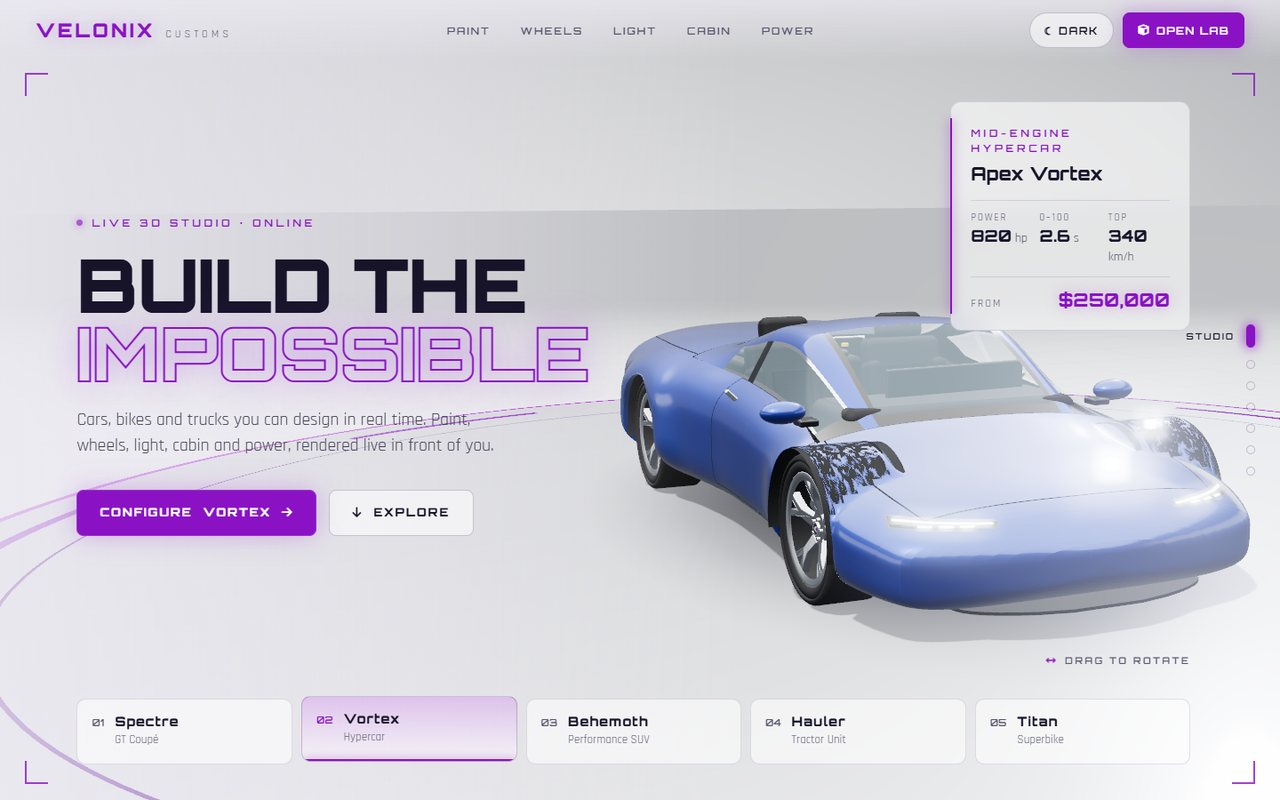
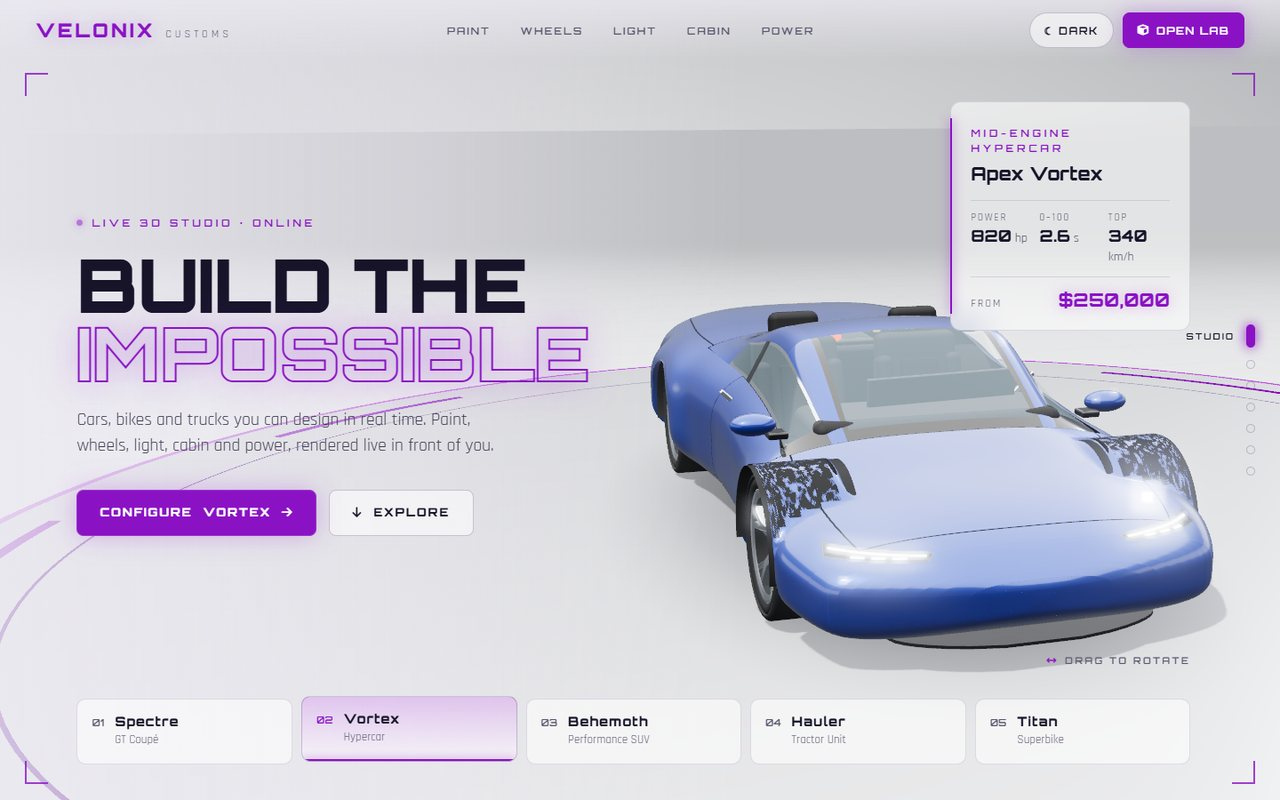
Tune showroom framing per vehicle and on mobile
- Bike gets a wider camera distance; hero angle raised to avoid hood glare
- Mobile cabin lifts the dashboard above the panel; headings keep word spaces
- Showroom renders at up to 1.25x DPR; hide drag hint and rail without WebGL
- Refresh hero, light-theme and mobile screenshots

diff --git a/index.html b/index.html
@@ -121,7 +121,7 @@
       <div class="panel">
         <div class="num" aria-hidden="true">01</div>
         <div class="eyebrow">Paint Lab</div>
-        <h2>Seventeen finishes.<br>One that's yours.</h2>
+        <h2>Seventeen finishes. <br>One that's yours.</h2>
         <p>Solid, metallic, matte, liquid chrome and an iridescent holo-spectrum. Tap a finish and watch it flow over the body.</p>
         <div class="opts swatches" data-opts="paint"></div>
         <div class="opt-name" data-opt-name="paint">&nbsp;</div>
@@ -133,7 +133,7 @@
       <div class="panel">
         <div class="num" aria-hidden="true">02</div>
         <div class="eyebrow">Wheel Bay</div>
-        <h2>Forged for<br>the stance.</h2>
+        <h2>Forged for <br>the stance.</h2>
         <p>Y-spoke, cross-mesh, aero turbines and carbon five-spokes, each with its own size and finish.</p>
         <div class="opts chips" data-opts="wheel"></div>
       </div>
@@ -144,7 +144,7 @@
       <div class="panel">
         <div class="num" aria-hidden="true">03</div>
         <div class="eyebrow">Light &amp; Scene</div>
-        <h2>Own the<br>night.</h2>
+        <h2>Own the <br>night.</h2>
         <p>Full-beam laser optics, underglow and three studio scenes. Neon Night is the one everyone remembers.</p>
         <div class="opt-label">Scene</div>
         <div class="opts chips" data-scene>
@@ -162,7 +162,7 @@
       <div class="panel">
         <div class="num" aria-hidden="true">04</div>
         <div class="eyebrow">Cabin</div>
-        <h2>Step<br>inside.</h2>
+        <h2>Step <br>inside.</h2>
         <p>Merino leather, Alcantara and ambient light that follows your mood. This is the real cabin, not a picture.</p>
         <div class="opt-label">Upholstery</div>
         <div class="opts swatches" data-opts="upholstery"></div>
@@ -176,7 +176,7 @@
       <div class="panel">
         <div class="num" aria-hidden="true">05</div>
         <div class="eyebrow">Power Core</div>
-        <h2>Pick your<br>heartbeat.</h2>
+        <h2>Pick your <br>heartbeat.</h2>
         <p>Combustion, Ion Drive electric or the experimental Dark Matter Core. The numbers update the moment you switch.</p>
         <div class="opts cards" data-opts="engine"></div>
         <dl class="perf">

diff --git a/site.js b/site.js
@@ -14,19 +14,20 @@
 
   // Camera goals per chapter (see driveShowroom in customize.html). x/y slide the vehicle across the screen.
   const PRESETS = {
-    hero:   { az: 0.85, el: 0.17, dist: 1.0,  ty: 0,     x: 0.19, y: 0.03, drift: 0.1 },
+    hero:   { az: 0.85, el: 0.23, dist: 1.0,  ty: 0,     x: 0.19, y: 0.03, drift: 0.1 },
     paint:  { az: 1.2,  el: 0.24, dist: 0.95, ty: 0,     x: 0.2,  y: 0,    drift: 0.05 },
     wheels: { az: 0.3,  el: 0.12, dist: 0.72, ty: -0.1,  x: -0.2, y: 0,    drift: 0.03 },
     light:  { az: 0.75, el: 0.16, dist: 0.95, ty: 0,     x: 0.2,  y: 0,    drift: 0.04, env: 2, lights: 'on' },
-    cabin:  { view: 'interior' },
+    cabin:  { view: 'interior', x: 0, y: 0 },
     power:  { az: -2.3, el: 0.13, dist: 0.9,  ty: 0,     x: -0.2, y: 0,    drift: 0.05, drive: true },
     build:  { az: 0.85, el: 0.3,  dist: 1.2,  ty: 0,     x: 0,    y: 0.2,  drift: 0.16 }
   };
   const MOBILE = {
     hero: { x: 0, y: 0.15 },
     paint: { x: 0, y: -0.2 }, wheels: { x: 0, y: -0.2, dist: 0.75 }, light: { x: 0, y: -0.2 },
-    power: { x: 0, y: -0.2 }, build: { x: 0, y: -0.22, dist: 1.05 }
+    cabin: { y: -0.26 }, power: { x: 0, y: -0.2 }, build: { x: 0, y: -0.22, dist: 1.05 }
   };
+  const TYPE_DIST = { bike: 1.3 };  // the bike's fit radius is tall for its length, so pull back a little
   const CYCLE = { paint: 'paint', wheels: 'wheel' };
   const PAINTS = ['purple', 'red', 'yellow', 'white', 'blue', 'green', 'black', 'gold', 'holo', 'mgrey'];
   const ENGINE_ICON = { v8: 'fa-fire', electric: 'fa-bolt', antimatter: 'fa-atom' };
@@ -130,6 +131,7 @@
   function applyChapter(name) {
     if (!V) return;
     const p = Object.assign({}, PRESETS[name], isMobile() ? MOBILE[name] : null);
+    if (p.dist) p.dist *= TYPE_DIST[V.state.model.type] || 1;
     V.show(p);
     const env = name === 'light' && lightEnv !== null ? lightEnv : (p.env ?? themeEnv());
     V.set({ env, lights: p.lights || 'drl', drive: !!p.drive && !reduce });

diff --git a/customize.html b/customize.html
@@ -1115,7 +1115,7 @@
     function initThreeJS() {
         const container = document.getElementById('viewport');
         renderer = new THREE.WebGLRenderer({ antialias: true, powerPreference: 'high-performance' });
-        renderer.setPixelRatio(Math.min(window.devicePixelRatio, SHOWROOM ? 1.5 : 2));
+        renderer.setPixelRatio(Math.min(window.devicePixelRatio, SHOWROOM ? 1.25 : 2));
         renderer.setSize(container.clientWidth, container.clientHeight);
         renderer.toneMapping = THREE.ACESFilmicToneMapping;
         renderer.toneMappingExposure = 1.0;
@@ -3517,7 +3517,7 @@
     function driveShowroom(dt) {
         const V = vehicle, inside = state.view === 'interior';
         const k = 1 - Math.exp(-dt * 2.4);
-        show.ox = lerp(show.ox, inside ? 0 : show.x, k); show.oy = lerp(show.oy, inside ? 0 : show.y, k);
+        show.ox = lerp(show.ox, show.x, k); show.oy = lerp(show.oy, show.y, k);
         const w = renderer.domElement.clientWidth, h = renderer.domElement.clientHeight;
         if (w && h) camera.setViewOffset(w, h, -show.ox * w, -show.oy * h, w, h);
         if (V && !camTween && !inside) {
